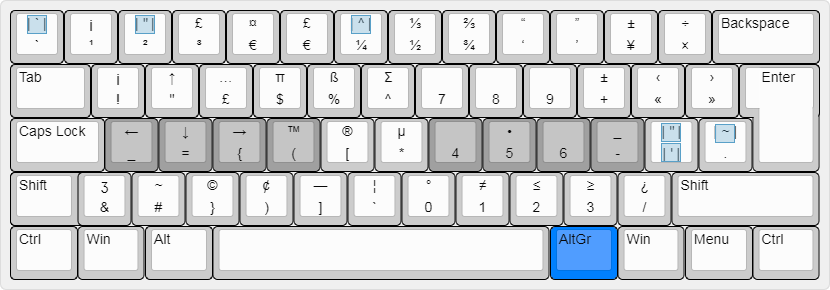
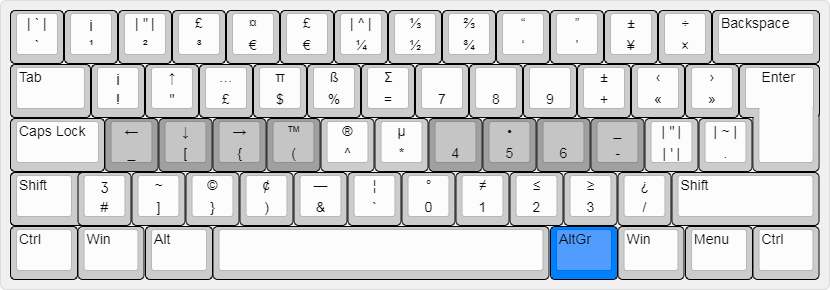
minor adjustments to AltGr mapping layer

diff --git a/AltGr/README.md b/AltGr/README.md
@@ -1,7 +1,7 @@
 AltGr AutoHotkey scripts
 =========================
 
-## AltGr Progammer extension 
+## AltGr Progammer extension
 
 Makes available commonly needed programmer characters such as brackets and symbols, available in convenient locations on the keyboard. Avoid awkward stretching for those common keys. Also adds a virtual numeric keybad to right hand. 
 
@@ -10,13 +10,17 @@ Makes available commonly needed programmer characters such as brackets and symbo
 - Numeric keypad allows quick entering of numbers without leaving the home position.
 - Also implements some of the AltGr International Extension (see below) so you can also type many extended and accented characters via dead keys (indicated with light blue background).
 
+Variations are available for layouts that implement the [Angle-Mod](http://colemakmods.github.io/ergonomic-mods/angle.html) and [Wide-Mod](http://colemakmods.github.io/ergonomic-mods/wide.html), examples are shown below. Note, for users of alternative layouts, these AHK files can be optionally used in conjuction with [AHK keymap scripts](../keymap/) or with [KLC layouts](../KLC/).
+
+
 ![altgr_programmer_std.png](altgr_programmer_std.png)
+<p align="center">AltGr mappings, UK keyboard shown. Should work fine on US and other layouts too.</p>
 
-<p align="center">UK keyboard shown. Should work fine on US and other layouts too.</p>
+![altgr_programmer_angle.png](altgr_programmer_angle.png)
+<p align="center">AltGr mappings with the Angle-Mod enabled.</p>
 
-There is also a Wide version of this layout suitable for use with the [KLC Wide Layouts](../KLC/)
-![altgr_programmer_wide.png](altgr_programmer_wide.png)
-<p align="center">Wide layout on a UK keyboard. Should work fine on US and other layouts too.</p>
+![altgr_programmer_wide_angle.png](altgr_programmer_wide_angle.png)
+<p align="center">AltGr mappings with both Angle and Wide Mods enabled.</p>
 
 ## AltGr International extension 
 
